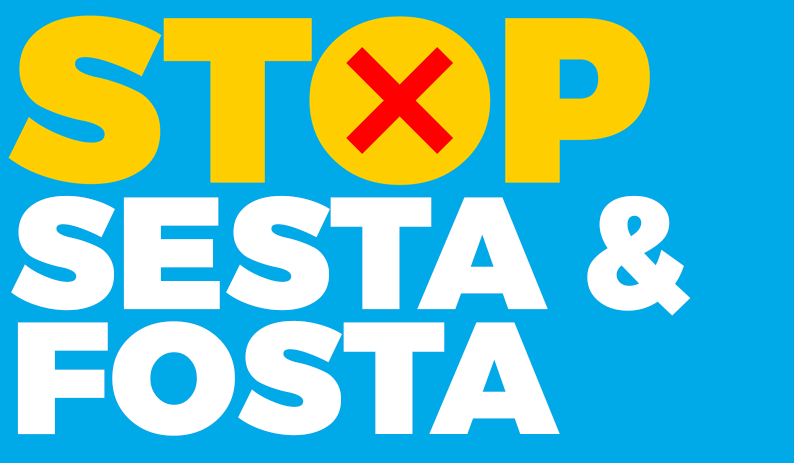
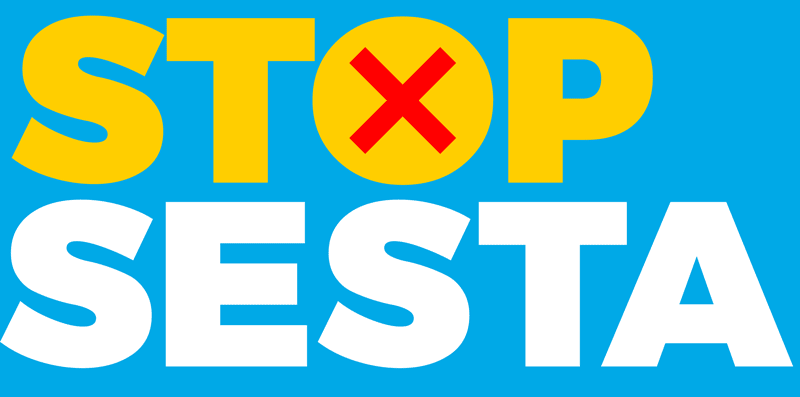
Revert "Embed stylesheet url"

diff --git a/layouts/index.html b/layouts/index.html
@@ -9,9 +9,9 @@
   {{ partial "navigation" .}}
 
   <div class="header-info">
-    <img class="hidden-lg img-responsive" src="images/stop-sesta-OG-mobile.png" alt="Stop SESTA hero image" />
-    <img class="hidden-xs hidden-sm hidden-md img-responsive" src="images/yomna-nologo.png" alt="Stop SESTA hero image" />
-    <img class="hidden-xs hidden-sm hidden-md img-responsive" src="images/stop-sesta-heading.png" alt="Stop SESTA" />
+    <img class="hidden-lg img-responsive" src="https://stopsesta.global.ssl.fastly.net/images/stop-sesta-OG-mobile.png" alt="Stop SESTA hero image" />
+    <img class="hidden-xs hidden-sm hidden-md img-responsive" src="https://stopsesta.global.ssl.fastly.net/images/yomna-nologo.png" alt="Stop SESTA hero image" />
+    <img class="hidden-xs hidden-sm hidden-md img-responsive" src="https://stopsesta.global.ssl.fastly.net/images/stop-sesta-heading.png" alt="Stop SESTA" />
   </div>
 
   <div class="content-section bg-yellow">
@@ -20,15 +20,15 @@
         <div class="col-md-8 col-md-offset-2">
           <div class="white-box">
 
-<p>We all rely on online communities to work, socialize, and learn. From the largest social media sites to the smallest message board, online platforms are central to our right to assemble and speak out. <a href="https://www.eff.org/deeplinks/2018/02/fosta-would-be-disaster-online-communities">SESTA and FOSTA would put all of us at risk</a> of being shut out of those spaces.</p>
+<p>We all rely on online communities to work, socialize, and learn. From the largest social media site to the smallest community message board, online  platforms are central to our right to assemble and speak out. <a href="https://www.eff.org/deeplinks/2017/08/internet-censorship-bill-would-spell-disaster-speech-and-innovation">SESTA would put those communities in danger</a>.</p>
 
-<p>The authors of these bills in Congress say they&#8217;re designed to fight sex trafficking, but the bills wouldn&#8217;t punish traffickers. They would threaten legitimate online speech.</p>
+<p>The authors of SESTA say it&#8217;s designed to fight sex trafficking, but the bill wouldn&#8217;t punish traffickers. It <em>would</em> threaten legitimate online speech.</p>
 
-<p>Online platforms are enabled by a law referred to as Section 230. Section 230 protects online platforms from liability for some types of speech by their users. Without Section 230, social media would not exist in its current form, and neither would the plethora of nonprofit and community-based online groups that serve as crucial outlets for free expression and knowledge sharing.</p>
+<p>Online platforms are enabled by a special law referred to as CDA 230 or simply Section 230. Section 230 protects online platforms from liability for some types of speech by their users. Without Section 230, social media would not exist in its current form, and neither would the plethora of nonprofit and community-based online groups that serve as crucial outlets for free expression and knowledge sharing.</p>
 
-<p>If Congress undermines these important protections by passing SESTA/FOSTA, many online platforms will be forced to place strong restrictions on their users&#8217; speech, silencing a lot of marginalized voices in the process.</p>
+<p>If Congress undermined these important protections by passing SESTA, many online communities would be forced to place strong restrictions on their users&#8217; speech or risk going out of business.</p>
 
-<p>Let&#8217;s tell Congress: SESTA/FOSTA won&#8217;t stop sex trafficking, but it <em>will</em> ruin online communities.</p>
+<p>Let&#8217;s tell Congress: SESTA wouldn’t stop sex trafficking, but it would strangle online communities.</p>
 
             <div class="action-button">
               <a href="#take-action" class="button">Act Now</a>
@@ -45,8 +45,6 @@
   </div>
 
   {{ partial "quotes" . }}
-
-  {{ partial "facts" . }}
 
   {{ partial "petition" . }}
 

diff --git a/sass/embed.scss b/sass/embed.scss
@@ -73,6 +73,9 @@
     color: #ff0000;
     border-color: #ff0000;
   }
+  h3.privacy-notice-header span.privacy-notice-popover {
+    float: left;
+  }
   #congress-message-tool h3 span.customize-message-popover:hover,
   h3.privacy-notice-header span.privacy-notice-popover:hover,
   h3.privacy-notice-header span.privacy-notice-popover:hover {
@@ -87,47 +90,29 @@
     font-weight: bold;
     font-size: 11px;
   }
-  #congress-message-tool,
-  #call-tool {
-    button.action {
-      clear: both;
-      text-decoration: none;
-      font-weight: 400;
-      font-size: 18px;
-      letter-spacing: 0.2em;
-      text-transform: uppercase;
+  #congress-message-tool input.action,
+  #call-tool button.action {
+    clear: both;
+    text-decoration: none;
+    font-weight: 400;
+    letter-spacing: 0.2em;
+    text-transform: uppercase;
+    border: 3px solid #ff0000;
+    padding: 2px 15px;
+    font-weight: bold;
+    border-radius: 6px;
+    margin-top: 2em;
+    background-color: transparent;
+    outline: 0;
+    color: #ff0000;
+    width: auto;
+    display: block;
+    margin-left: auto;
+    margin-right: auto;
+    &:hover {
+      background-color: #ff0000;
       border: 3px solid #ff0000;
-      padding: 2px 15px;
-      font-weight: bold;
-      border-radius: 6px;
-      margin-top: 3em;
-      background-color: #ffd100;
-      outline: 0;
-      color: #ff0000;
-      width: auto;
-      display: block;
-      margin-left: auto;
-      margin-right: auto;
-      &:hover {
-        background-color: #ff0000;
-        border: 3px solid #ff0000;
-        color: #ffd100;
-      }
-    }
-    h3.privacy-notice-header span.privacy-notice-popover {
-      float: left;
-      margin-right: 3px;
-    }
-    .tool-body {
-      background-color: #eee;
-      padding-bottom: 2rem;
-      .call-script-box {
-        background-color: #fff;
-      }
-    }
-    .signup-radios label.radio-inline,
-    .email-signup label.radio-inline {
-      background-color: #fff;
+      color: #ffd100;
     }
   }
   .tool .tool-body {

diff --git a/layouts/partials/head.html b/layouts/partials/head.html
@@ -17,21 +17,25 @@
 <script type="text/javascript">
     var ac_embed = {};
     ac_embed.width = 760;
-    ac_embed.css = "https://stopsesta.org/embed.css";
+    ac_embed.css_content = "#ac_embed_styles";
+</script>
+
+<script id="ac_embed_styles" type="text/x-css-content">
+  {{ partial "ac_embed_styles" . }}
 </script>
 
 <script type="text/javascript" src="https://act.eff.org/action/embed"></script>
 
 <!-- Open graph !-->
-<meta property="og:site_name" content="Stop SESTA/FOSTA"/>
-<meta property="og:image" content="https://stopsesta.org/images/stop-sesta-OG.png" />
-<meta property="og:title" content="Stop SESTA/FOSTA"/>
-<meta property="og:description" content="Defend our online communities. SESTA/FOSTA would put our communities in danger."/>
+<meta property="og:site_name" content="Stop SESTA"/>
+<meta property="og:image" content="https://stopsesta.org/images/stop-sesta-OG-2.jpg" />
+<meta property="og:title" content="Stop SESTA"/>
+<meta property="og:description" content="Defend our online communities. SESTA would put our communities in danger."/>
 <meta property="og:type" content="website"/>
-<meta property="og:url" content="https://stopsesta.org/images/stop-sesta-OG.png"/>
+<meta property="og:url" content="https://stopsesta.org/images/stop-sesta-OG-2.jpg"/>
 <meta property="fb:app_id" content="147715685336936" />
  <!-- Twitter: card tags -->
 <meta name="twitter:card" content="summary_large_image">
-<meta name="twitter:title" content="Stop SESTA/FOSTA">
-<meta name="twitter:description" content="Defend our online communities. SESTA/FOSTA would put our communities in danger.">
-<meta name="twitter:image" content="https://stopsesta.org/images/stop-sesta-OG.png">
+<meta name="twitter:title" content="Stop SESTA">
+<meta name="twitter:description" content="Defend our online communities. SESTA would put our communities in danger.">
+<meta name="twitter:image" content="https://stopsesta.org/images/stop-sesta-OG-2.jpg">

diff --git a/sass/main.scss b/sass/main.scss
@@ -226,7 +226,7 @@ h2 {
  * Background section
  */
 .content-section {
-  padding: 4em 0;
+  padding: 2em 0;
   position: relative;
   overflow-x: hidden;
   .action-button {
@@ -240,7 +240,7 @@ h2 {
           }
       }
   }
-  p, li {
+  p {
     color: #000;
     font-style: normal;
     font-weight: 400;
@@ -298,11 +298,11 @@ h2 {
       margin-top: 60px;
     }
     a, span {
-      color: black;
+      color: $white;
       text-transform: uppercase;
       font-weight: 400;
       letter-spacing: 0.15em;
-      font-size: 1em;
+      font-size: 0.8em;
       text-align: right;
       margin-left: 35%;
       display: block;
@@ -527,6 +527,7 @@ p.tagline {
   background-color: $blue;
   h2 {
     color: $white;
+    margin-top: 30px;
     text-align: center;
   }
 }

diff --git a/layouts/partials/quotes.html b/layouts/partials/quotes.html
@@ -1,7 +1,7 @@
 <div class="content-section quote-section bg-blue" id="quotes">
   <div class="container text-left">
     <div class="col-md-8 col-md-offset-2">
-      <h2>Experts oppose SESTA/FOSTA</h2>
+      <h2>Experts oppose SESTA</h2>
 
       <div class="quote">
         <p>Online platforms are the modern town square. We all benefit from the diversity of voices and perspectives online, and that&#8217;s largely thanks to the safe harbor protections in Section 230. Shifting more liability to Internet platforms for their users&#8217; speech will inevitably lead to those platforms more tightly monitoring and restricting users' activities. Again and again, when platforms clamp down on their users&#8217; speech, marginalized voices are the first to disappear.</p>

diff --git a/layouts/partials/navigation.html b/layouts/partials/navigation.html
@@ -8,12 +8,11 @@
         <span class="icon-bar"></span>
         <span class="icon-bar"></span>
       </button>
-      <a class="navbar-brand" href="#top">Stop SESTA/FOSTA</a>
+      <a class="navbar-brand" href="#top">Stop SESTA</a>
     </div>
     <div id="navbar" class="collapse navbar-collapse">
       <ul class="nav navbar-nav navbar-right">
         <li><a href="#quotes">Quotes</a></li>
-        <li><a href="#facts">Facts</a></li>
         <li><a href="#take-action">Take Action</a></li>
         <li><a href="#who-we-are">Who We Are</a></li>
       </ul>

diff --git a/layouts/partials/petition.html b/layouts/partials/petition.html
@@ -1,15 +1,17 @@
-<div  id="take-action" class="content-section bg-blue">
+<div  id="take-action" class="content-section bg-yellow">
 
   <p>&nbsp;</p>
 
 
 <h2>Act Now</h2>
 
-<a id="action-center-widget" href="https://act.eff.org/action/stop-sesta-fosta">Click here to take action.</a>
+<a id="action-center-widget" href="https://act.eff.org/action/don-t-let-congress-censor-the-internet">Click here to take action.</a>
 
 
 
 <p>&nbsp;</p>
 <p>&nbsp;</p>
+<p>&nbsp;</p>
+
 
 </div>

diff --git a/layouts/partials/logos.html b/layouts/partials/logos.html
@@ -7,13 +7,20 @@
       {{ if .url }}
         <a href="{{ .url }}" class="{{ .class }}">
       {{ end }}
-          <img src="images/logos/{{ .logo }}" alt="{{ .name }}">
+          <img src="https://stopsesta.global.ssl.fastly.net/images/logos/{{ .logo }}" alt="{{ .name }}">
 
       {{ if .url }}
         </a>
       {{ end }}
 
     {{ end }}
+
+
+    <p>&nbsp;</p>
+    <p>&nbsp;</p>
+    <p>&nbsp;</p>
+    <p>&nbsp;</p>
+    <p>&nbsp;</p>
 
   </div>
 </div>

diff --git a/static/js/main.js b/static/js/main.js
@@ -30,12 +30,6 @@ $(function(){
       }, 600);
     });
 
-    $('a[href="#facts"]').click(function () {
-      $('html, body').animate({
-        scrollTop: $("#facts").offset().top - 20
-      }, 600);
-    });
-
     $('a[href="#top"]').click(function () {
       $('html, body').animate({
         scrollTop: $("#top").offset().top - 15
